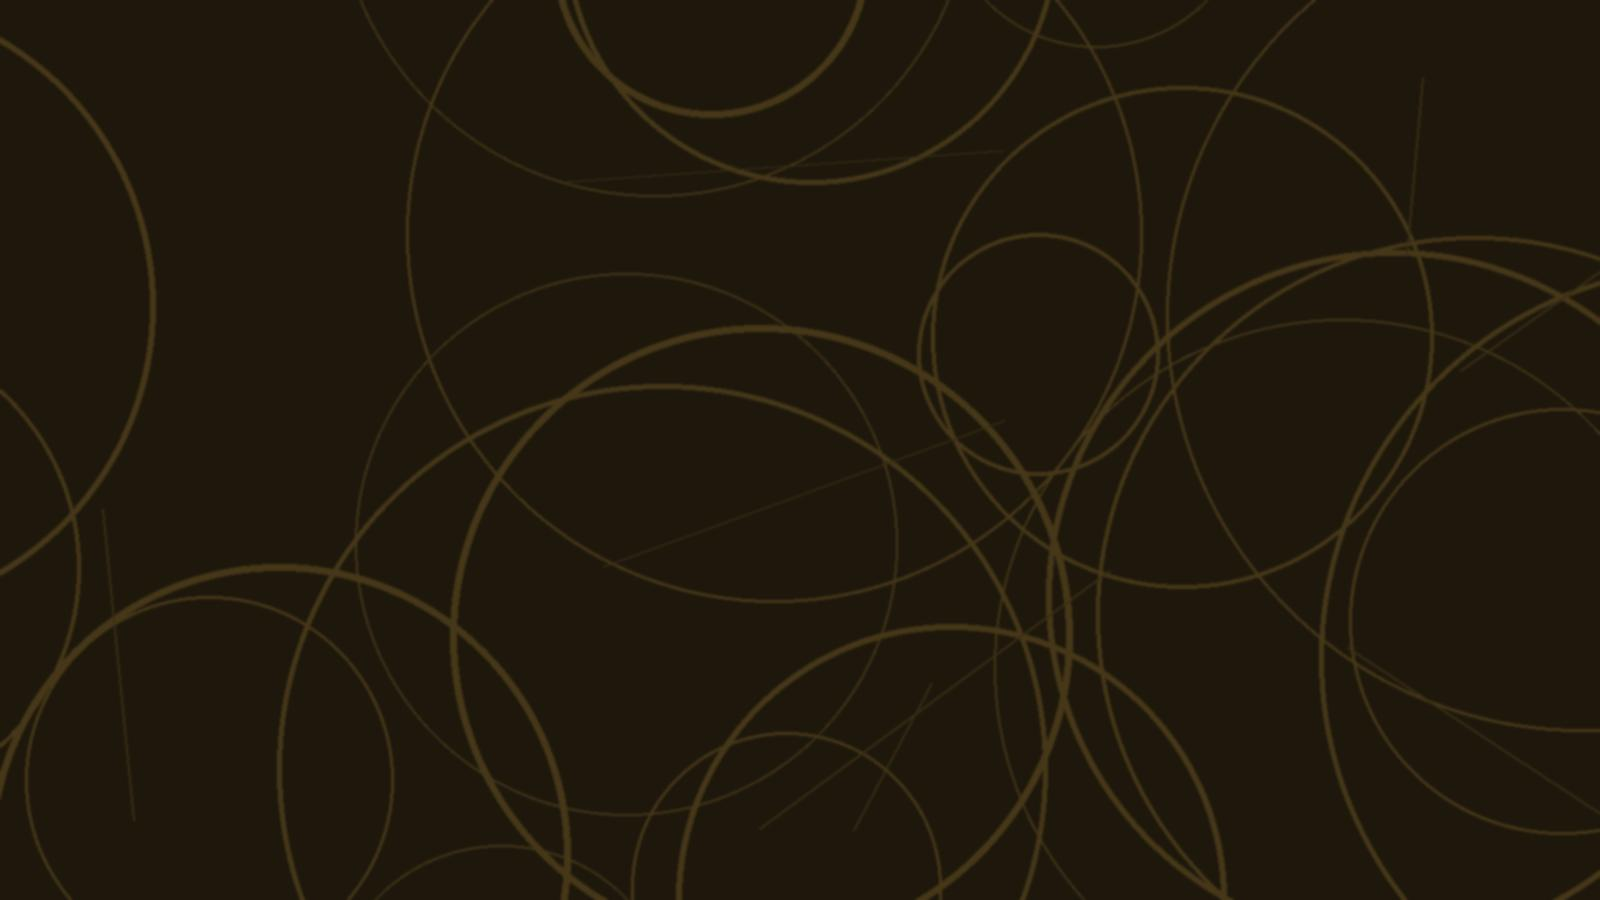
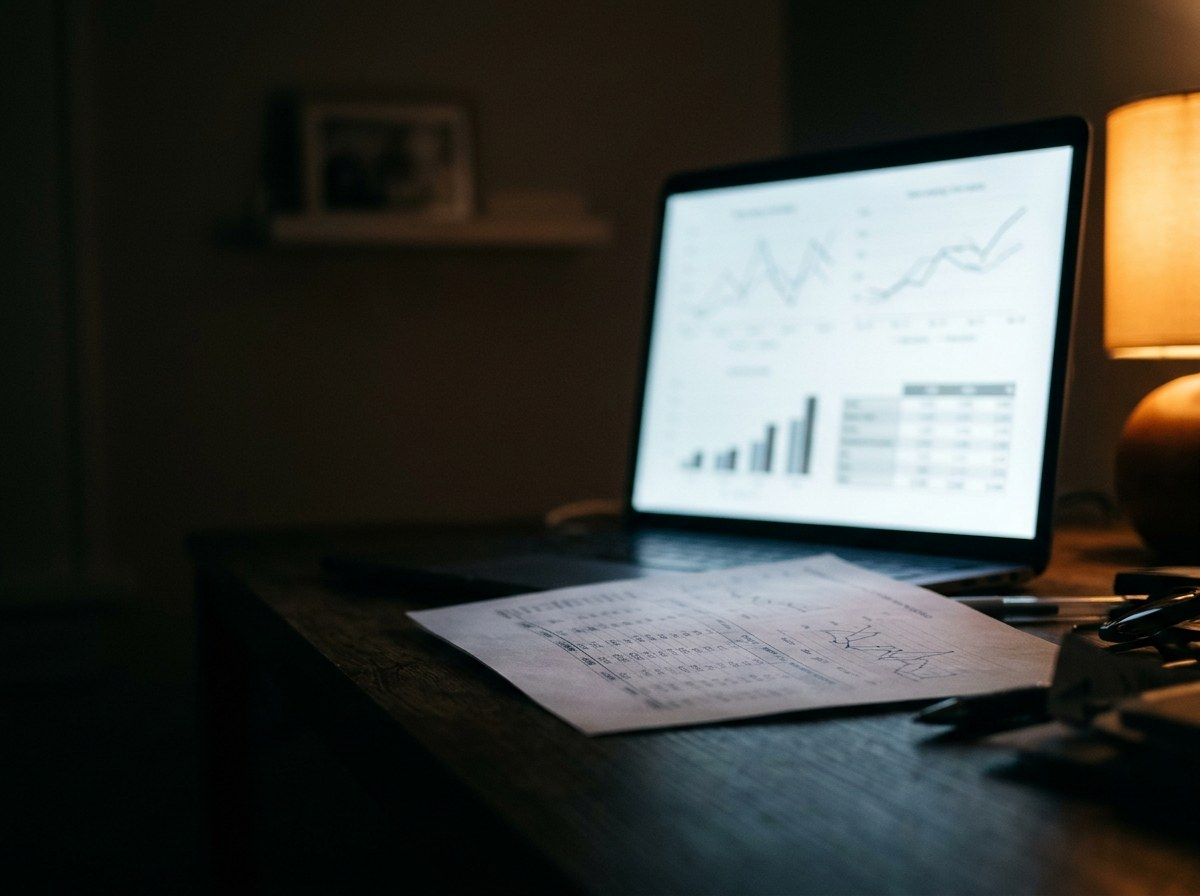
Foto de analitica en el carrusel: las cinco imagenes reales

diff --git a/publico/index.html b/publico/index.html
@@ -157,7 +157,7 @@
       </article>
 
       <article class="frente" id="analitica" role="group" aria-roledescription="frente" aria-label="Analítica y resultados">
-        <img class="frente-img" src="img/analitica.jpg?v=a218401b" alt="" width="1600" height="900" loading="lazy" decoding="async">
+        <img class="frente-img" src="img/analitica.jpg?v=35fb28e5" alt="" width="1600" height="900" loading="lazy" decoding="async">
         <div class="frente-cuerpo">
           <h3>Analítica y resultados</h3>
           <dl>
